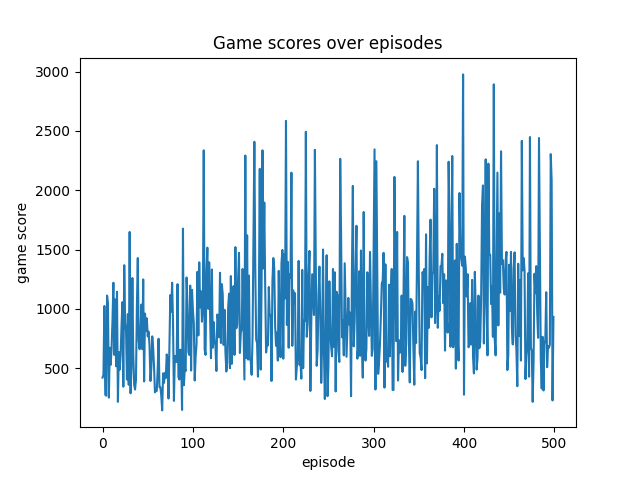
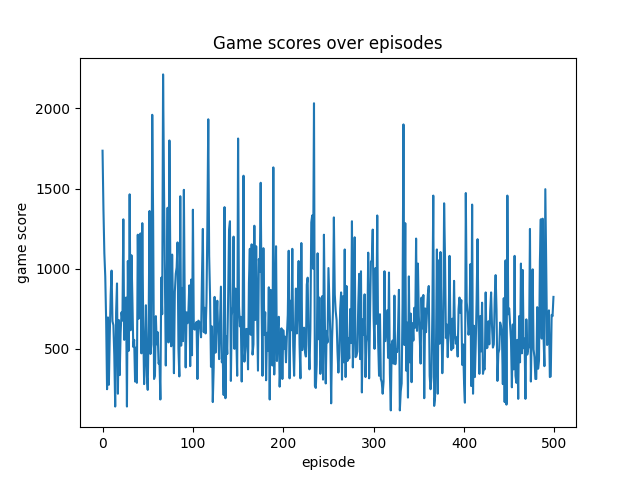
trying to make the model learn better

diff --git a/RL_game_2048.py b/RL_game_2048.py
@@ -38,14 +38,15 @@ class Game(tk.Frame):
         # self.master.bind('<Down>', self.down)
 
         self.action_to_movement = {0: self.left, 1: self.right, 2: self.up, 3: self.down}
-        self.rewards = {'won': 1, 'lost':0}
+        self.rewards = {'won': 100, 'lost':0}
         self.game_status = None
         self.matrix = None
         self.state = None
 
 
-    def get_observation(self):
-        return {'agent': self.score, 'target':2048}
+
+    # def get_observation(self):
+    #     return {'agent': self.score, 'target':2048}
     
     def reset(self):
         self.matrix = np.zeros((4,4),dtype=int)
@@ -69,6 +70,7 @@ class Game(tk.Frame):
         )
 
         self.score = 0
+        self.prev_score = 0
         self.game_status = None
         self.state = self.matrix.flatten()
         #observation = self.get_observation()
@@ -87,6 +89,7 @@ class Game(tk.Frame):
         else:
             reward = 0
 
+        reward += self.score - self.prev_score
         #observation = self.get_observation()
 
         return np.array(self.state, dtype=np.float32), reward, terminated, self.score
@@ -147,6 +150,7 @@ class Game(tk.Frame):
         # self.matrix[diff_mat==0] *= 2
         # self.matrix[np.roll(diff_mat,1,axis=1)==0] = 0
         # self.score += sum(self.matrix[diff_mat==0])
+        self.prev_score = self.score
         for i in range(4):
             for j in range(3):
                 if self.matrix[i][j] != 0 and self.matrix[i][j] == self.matrix[i][j+1]:

diff --git a/main.py b/main.py
@@ -22,24 +22,20 @@ if __name__ == '__main__':
         score = 0
         done = False
         observation = game.reset()
-        #print(i)
         while not done:
             action = agent.choose_action(observation)
-            #print(action)
             observation_new, reward, done, game_score = game.step(action)
             score += reward
-            #print(observation, action, reward, observation_new, done)
             agent.store_transition(observation, action, reward, observation_new, done)
             agent.learn()
             observation = observation_new
 
         game_scores.append(game_score)
         if i % 10 == 0:
-            print(f'episode {i} | game_score: {game_score}')
+            print(f'episode {i} | total reward score: {score} | game_score: {game_score}')
             #print(game_score, done)
 
             #time.sleep(0.1)
     #game_thread.join()
     game.terminate()
     plot_game_scores(game_scores)
-    print(score)
